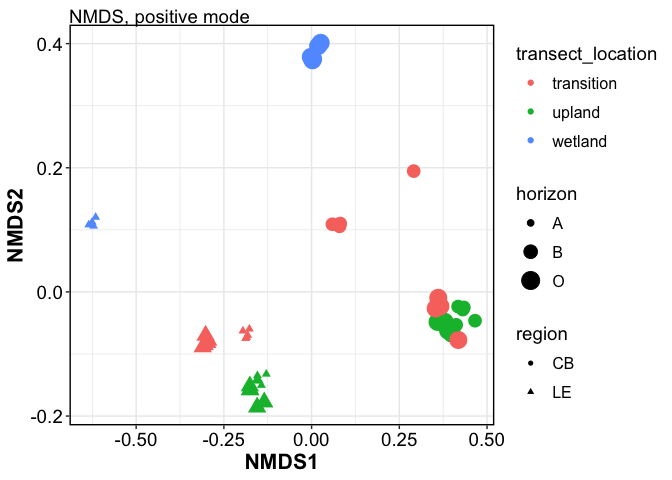
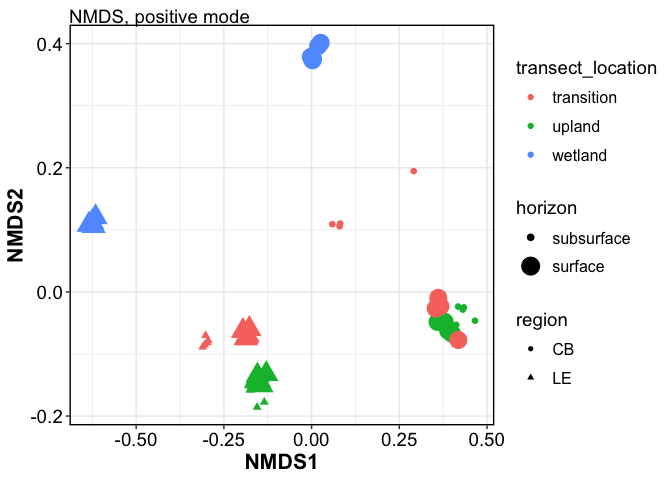
update horizon nomenclature. NMR - plot relabund summaries.

diff --git a/3-reports/report.md b/3-reports/report.md
@@ -18,11 +18,11 @@ All identified peaks across the different samples
 
 |                   |  Df |  SumOfSqs |        R2 |          F | Pr(\>F) |
 |:------------------|----:|----------:|----------:|-----------:|--------:|
-| mode              |   1 | 2.6604864 | 0.8794898 | 2259.36464 |   0.001 |
-| region            |   1 | 0.0896189 | 0.0296258 |   76.10708 |   0.001 |
-| transect_location |   2 | 0.0739490 | 0.0244457 |   31.39987 |   0.001 |
-| horizon           |   2 | 0.0298575 | 0.0098701 |   12.67794 |   0.001 |
-| Residual          |  89 | 0.1048008 | 0.0346445 |         NA |      NA |
+| mode              |   1 | 2.6604864 | 0.8794898 | 2226.81444 |   0.001 |
+| region            |   1 | 0.1812737 | 0.0599245 |  151.72520 |   0.001 |
+| transect_location |   2 | 0.0748534 | 0.0247447 |   31.32598 |   0.001 |
+| horizon           |   1 | 0.0271308 | 0.0089688 |   22.70837 |   0.001 |
+| Residual          |  90 | 0.1075275 | 0.0355459 |         NA |      NA |
 | Total             |  95 | 3.0250340 | 1.0000000 |         NA |      NA |
 
 PERMANOVA across all FTICR data showed that mode (positive vs. negative)
@@ -32,24 +32,24 @@ So we split the data by mode for all subsequent analyses.
 
 |                   |  Df |  SumOfSqs |        R2 |         F | Pr(\>F) |
 |:------------------|----:|----------:|----------:|----------:|--------:|
-| region            |   1 | 0.0628111 | 0.3144840 | 144.51811 |   0.001 |
-| transect_location |   2 | 0.0501636 | 0.2511601 |  57.70911 |   0.001 |
-| horizon           |   2 | 0.0133861 | 0.0670219 |  15.39964 |   0.001 |
-| Residual          |  42 | 0.0182542 | 0.0913957 |        NA |      NA |
+| region            |   1 | 0.1324966 | 0.6633868 | 274.16636 |   0.001 |
+| transect_location |   2 | 0.0504319 | 0.2525036 |  52.17769 |   0.001 |
+| horizon           |   1 | 0.0108597 | 0.0543726 |  22.47128 |   0.001 |
+| Residual          |  43 | 0.0207806 | 0.1040450 |        NA |      NA |
 | Total             |  47 | 0.1997275 | 1.0000000 |        NA |      NA |
 
-For negative mode, region accounted for 31 % and transect 25 % of total
+For negative mode, region accounted for 66 % and transect 25 % of total
 variability.
 
 |                   |  Df |  SumOfSqs |        R2 |        F | Pr(\>F) |
 |:------------------|----:|----------:|----------:|---------:|--------:|
-| region            |   1 | 0.0298027 | 0.1808196 | 20.70815 |   0.001 |
-| transect_location |   2 | 0.0381819 | 0.2316581 | 13.26518 |   0.001 |
-| horizon           |   2 | 0.0196958 | 0.1194985 |  6.84271 |   0.007 |
-| Residual          |  42 | 0.0604455 | 0.3667361 |       NA |      NA |
+| region            |   1 | 0.0571189 | 0.3465530 | 39.78097 |   0.001 |
+| transect_location |   2 | 0.0387458 | 0.2350797 | 13.49245 |   0.001 |
+| horizon           |   1 | 0.0184003 | 0.1116389 | 12.81508 |   0.001 |
+| Residual          |  43 | 0.0617409 | 0.3745957 |       NA |      NA |
 | Total             |  47 | 0.1648201 | 1.0000000 |       NA |      NA |
 
-For positive mode, region accounted for 18 % and transect 23 % of total
+For positive mode, region accounted for 34 % and transect 23 % of total
 variability.
 
 ### PCA
@@ -89,9 +89,8 @@ One example spectrum per transect location
 |                   |  Df |  SumOfSqs |        R2 |          F | Pr(\>F) |
 |:------------------|----:|----------:|----------:|-----------:|--------:|
 | extraction        |   1 | 1.9789114 | 0.6932902 | 172.826234 |   0.001 |
-| site              |   0 | 0.0000000 | 0.0000000 |       -Inf |      NA |
+| site              |   1 | 0.2483364 | 0.0870020 |  21.688213 |   0.001 |
 | transect_location |   2 | 0.0686294 | 0.0240436 |   2.996841 |   0.032 |
-| horizon           |   0 | 0.0000000 | 0.0000000 |       -Inf |      NA |
 | Residual          |  45 | 0.5152633 | 0.1805169 |         NA |      NA |
 | Total             |  49 | 2.8543766 | 1.0000000 |         NA |      NA |
 
@@ -102,9 +101,8 @@ contributed to 69% of total variability.
 
 | term              |  df |  SumOfSqs |        R2 | statistic | p.value |
 |:------------------|----:|----------:|----------:|----------:|--------:|
-| site              |   0 | 0.0000000 | 0.0000000 |       Inf |      NA |
+| site              |   1 | 0.2477310 | 0.3854409 | 16.271426 |   0.001 |
 | transect_location |   2 | 0.0702478 | 0.1092975 |  2.307003 |   0.086 |
-| horizon           |   0 | 0.0000000 | 0.0000000 |      -Inf |      NA |
 | Residual          |  17 | 0.2588235 | 0.4026995 |        NA |      NA |
 | Total             |  20 | 0.6427211 | 1.0000000 |        NA |      NA |
 
@@ -112,17 +110,16 @@ contributed to 69% of total variability.
 
 | term              |  df |  SumOfSqs |        R2 | statistic | p.value |
 |:------------------|----:|----------:|----------:|----------:|--------:|
-| site              |   0 | 0.0000000 | 0.0000000 |      -Inf |      NA |
+| site              |   1 | 0.0267263 | 0.1380212 |   7.42903 |   0.008 |
 | transect_location |   2 | 0.0801772 | 0.4140556 |  11.14333 |   0.001 |
-| horizon           |   0 | 0.0000000 | 0.0000000 |      -Inf |      NA |
 | Residual          |  25 | 0.0899386 | 0.4644656 |        NA |      NA |
 | Total             |  28 | 0.1936388 | 1.0000000 |        NA |      NA |
 
-For WATER extracts, transect location accounted for only 10% of total
-variability.
+For WATER extracts, site accounted for 38% and transect location
+accounted for only 10% of total variability.
 
-For SPE extracts, transect location accounted for 41% of total
-variability.
+For SPE extracts, site accounted for 14% and transect location accounted
+for 41% of total variability.
 
 ### PCA
 
@@ -142,6 +139,8 @@ Separation was primarily along SPE vs. WATER extraction types.
 
 ### relative abundance
 
+PLOTTING ALL REPLICATES
+
     ## [1] "WATER EXTRACTS"
 
 ![](report_files/figure-gfm/unnamed-chunk-14-1.png)<!-- -->
@@ -152,6 +151,10 @@ Separation was primarily along SPE vs. WATER extraction types.
 
 - water extracts more variable. more aliphatic
 - SPE extracts less variable. more unsaturated
+
+PLOTTING SUMMARIES
+
+![](report_files/figure-gfm/unnamed-chunk-15-1.png)<!-- -->
 
 ------------------------------------------------------------------------
 
@@ -182,7 +185,7 @@ Date run: 2026-03-23
     ## [1] stats     graphics  grDevices utils     datasets  methods   base     
     ## 
     ## other attached packages:
-    ##  [1] ggh4x_0.3.1         factoextra_1.0.7    cluster_2.1.8.1    
+    ##  [1] factoextra_1.0.7    cluster_2.1.8.1     ggh4x_0.3.1        
     ##  [4] whistledown_0.1.0   ggConvexHull_0.1.0  PNWColors_0.1.0    
     ##  [7] ggbiplot_0.55       googlesheets4_1.1.1 vegan_2.7-1        
     ## [10] permute_0.9-7       nmrrr_1.0.0         lubridate_1.9.4    
@@ -191,26 +194,26 @@ Date run: 2026-03-23
     ## [19] tibble_3.3.1        ggplot2_4.0.2       tidyverse_2.0.0    
     ## 
     ## loaded via a namespace (and not attached):
-    ##  [1] gld_2.6.7          readxl_1.4.5       rlang_1.1.7        magrittr_2.0.3    
-    ##  [5] snakecase_0.11.1   e1071_1.7-16       compiler_4.5.0     mgcv_1.9-1        
-    ##  [9] callr_3.7.6        vctrs_0.7.1        pkgconfig_2.0.3    fastmap_1.2.0     
-    ## [13] backports_1.5.0    labeling_0.4.3     rmarkdown_2.29     tzdb_0.5.0        
-    ## [17] haven_2.5.4        ps_1.9.1           xfun_0.53          broom_1.0.12      
-    ## [21] parallel_4.5.0     prettyunits_1.2.0  DescTools_0.99.60  R6_2.6.1          
-    ## [25] stringi_1.8.7      RColorBrewer_1.1-3 car_3.1-3          boot_1.3-31       
-    ## [29] cellranger_1.1.0   Rcpp_1.1.1         knitr_1.50         Matrix_1.7-3      
-    ## [33] splines_4.5.0      igraph_2.1.4       timechange_0.3.0   tidyselect_1.2.1  
-    ## [37] rstudioapi_0.17.1  abind_1.4-8        yaml_2.3.10        targets_1.11.3    
-    ## [41] codetools_0.2-20   processx_3.8.6     lattice_0.22-6     plyr_1.8.9        
-    ## [45] withr_3.0.2        S7_0.2.0           evaluate_1.0.3     proxy_0.4-27      
-    ## [49] pillar_1.10.2      ggpubr_0.6.0       carData_3.0-5      generics_0.1.3    
-    ## [53] hms_1.1.3          scales_1.4.0       rootSolve_1.8.2.4  base64url_1.4     
-    ## [57] class_7.3-23       glue_1.8.0         janitor_2.2.1      lmom_3.2          
-    ## [61] tools_4.5.0        data.table_1.17.0  ggsignif_0.6.4     Exact_3.3         
-    ## [65] fs_1.6.6           mvtnorm_1.3-3      cowplot_1.1.3      grid_4.5.0        
-    ## [69] nlme_3.1-168       googledrive_2.1.1  Formula_1.2-5      cli_3.6.5         
-    ## [73] expm_1.0-0         gargle_1.5.2       gtable_0.3.6       rstatix_0.7.2     
-    ## [77] digest_0.6.37      ggrepel_0.9.6      farver_2.1.2       htmltools_0.5.8.1 
-    ## [81] lifecycle_1.0.5    httr_1.4.7         secretbase_1.0.5   MASS_7.3-65
+    ##  [1] tidyselect_1.2.1   Exact_3.3          rootSolve_1.8.2.4  farver_2.1.2      
+    ##  [5] targets_1.11.3     S7_0.2.0           fastmap_1.2.0      janitor_2.2.1     
+    ##  [9] digest_0.6.37      base64url_1.4      secretbase_1.0.5   timechange_0.3.0  
+    ## [13] lifecycle_1.0.5    processx_3.8.6     lmom_3.2           magrittr_2.0.3    
+    ## [17] compiler_4.5.0     rlang_1.1.7        tools_4.5.0        igraph_2.1.4      
+    ## [21] yaml_2.3.10        data.table_1.17.0  ggsignif_0.6.4     knitr_1.50        
+    ## [25] labeling_0.4.3     prettyunits_1.2.0  plyr_1.8.9         RColorBrewer_1.1-3
+    ## [29] abind_1.4-8        expm_1.0-0         withr_3.0.2        grid_4.5.0        
+    ## [33] googledrive_2.1.1  ggpubr_0.6.0       e1071_1.7-16       scales_1.4.0      
+    ## [37] MASS_7.3-65        cli_3.6.5          mvtnorm_1.3-3      rmarkdown_2.29    
+    ## [41] generics_0.1.3     rstudioapi_0.17.1  httr_1.4.7         tzdb_0.5.0        
+    ## [45] readxl_1.4.5       gld_2.6.7          proxy_0.4-27       splines_4.5.0     
+    ## [49] parallel_4.5.0     cellranger_1.1.0   vctrs_0.7.1        boot_1.3-31       
+    ## [53] Matrix_1.7-3       carData_3.0-5      car_3.1-3          callr_3.7.6       
+    ## [57] hms_1.1.3          rstatix_0.7.2      ggrepel_0.9.6      Formula_1.2-5     
+    ## [61] glue_1.8.0         codetools_0.2-20   ps_1.9.1           cowplot_1.1.3     
+    ## [65] stringi_1.8.7      gtable_0.3.6       pillar_1.10.2      htmltools_0.5.8.1 
+    ## [69] R6_2.6.1           evaluate_1.0.3     lattice_0.22-6     haven_2.5.4       
+    ## [73] backports_1.5.0    broom_1.0.12       snakecase_0.11.1   gargle_1.5.2      
+    ## [77] class_7.3-23       DescTools_0.99.60  Rcpp_1.1.1         nlme_3.1-168      
+    ## [81] mgcv_1.9-1         xfun_0.53          fs_1.6.6           pkgconfig_2.0.3
 
 </details>
